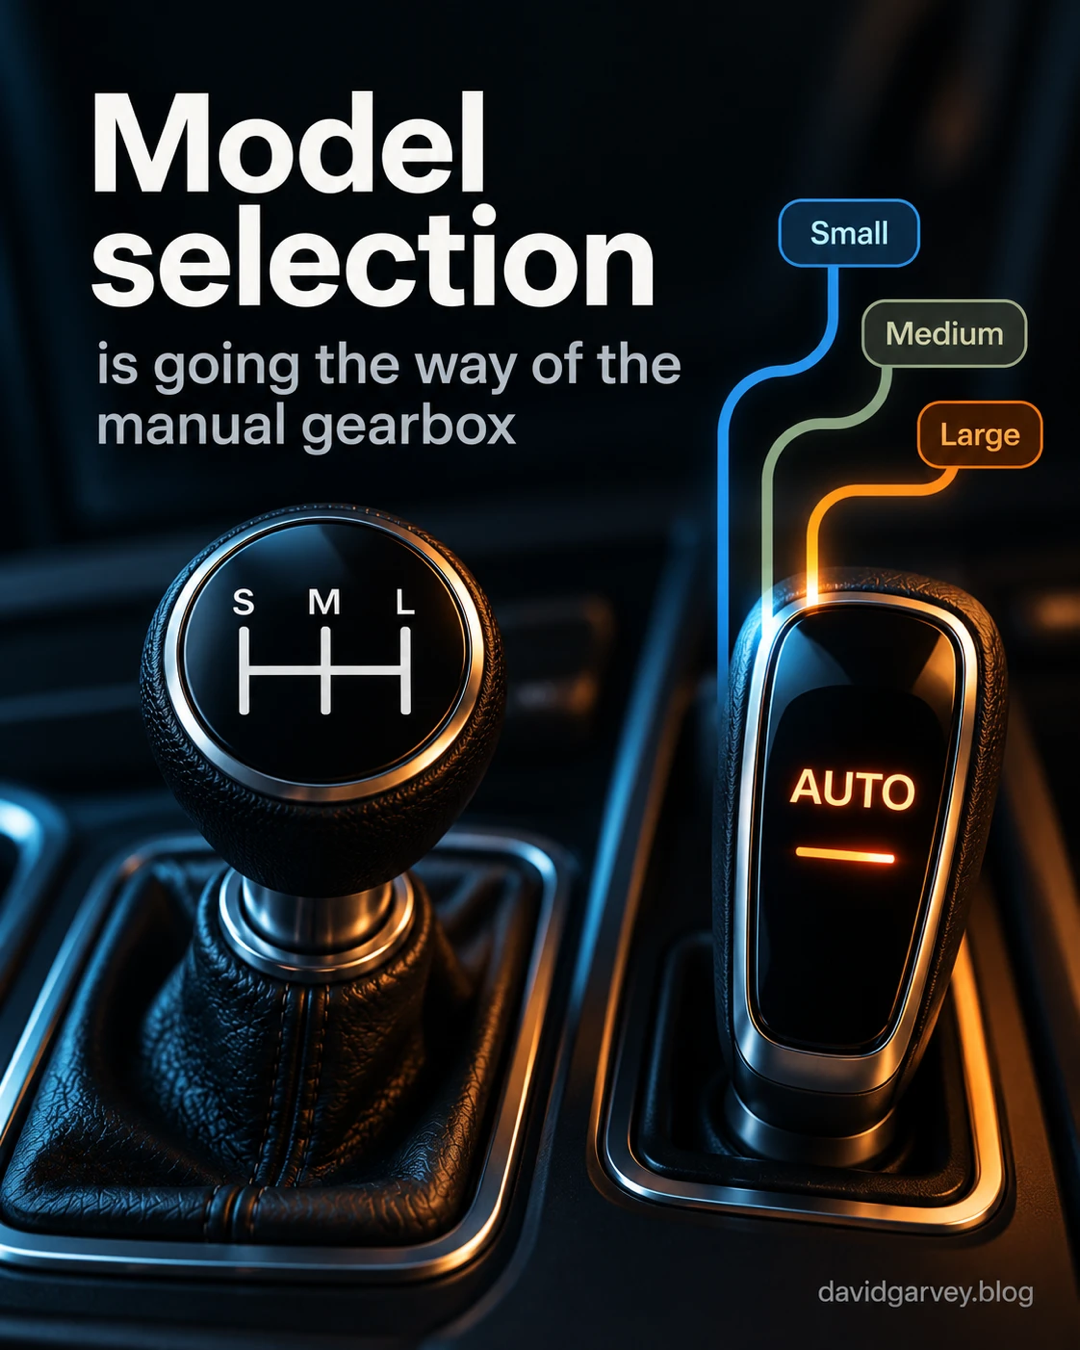
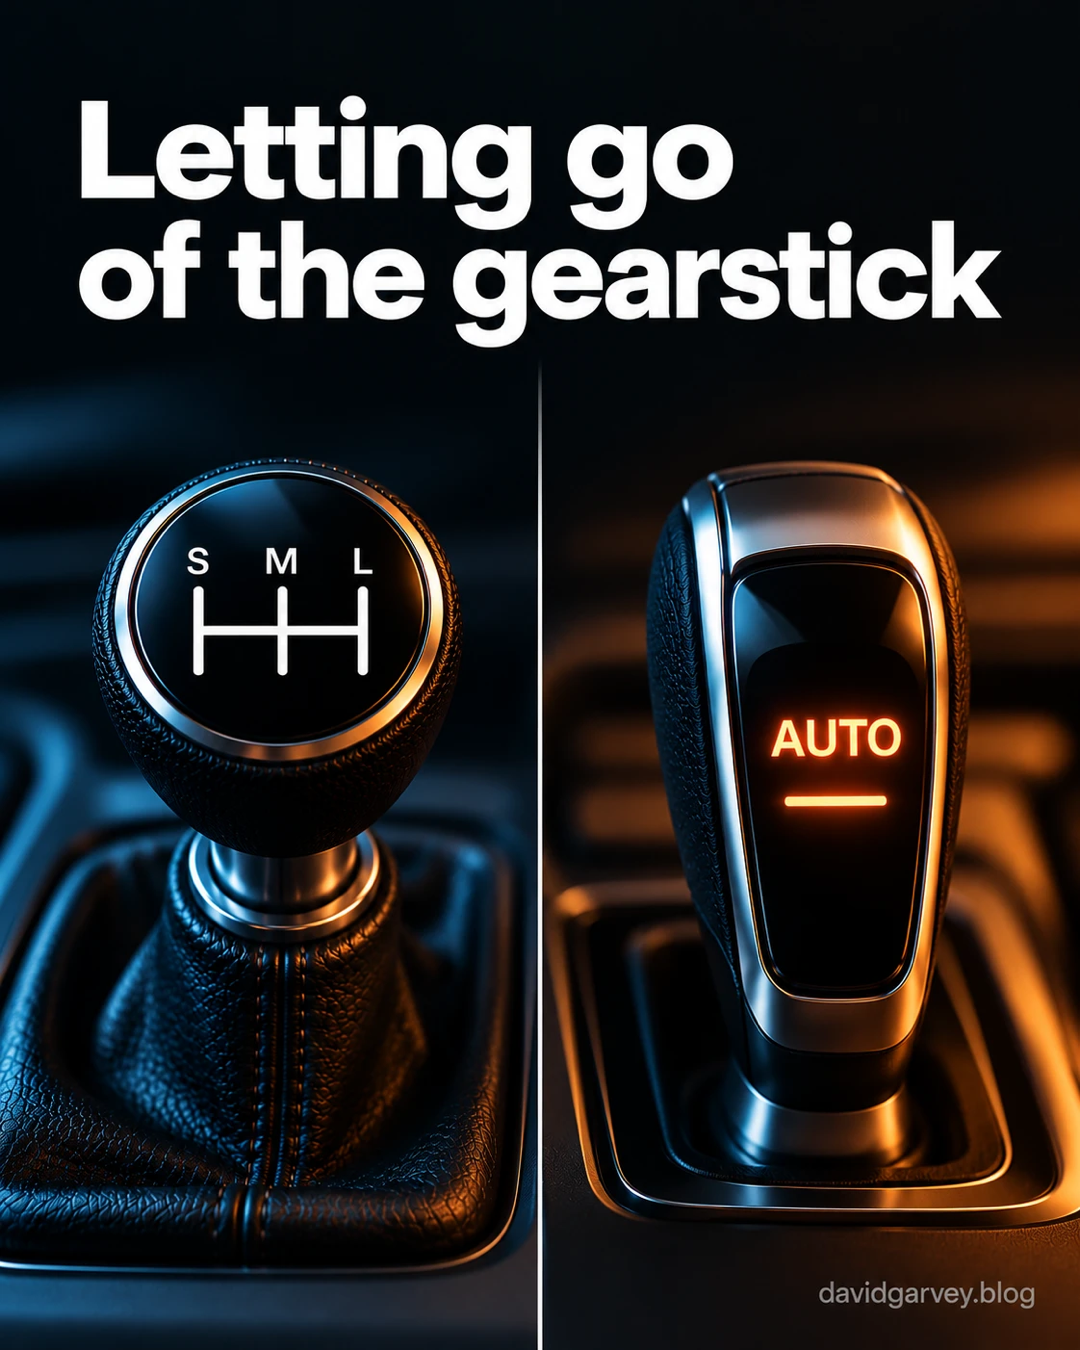
Replace the gearstick LinkedIn image with the new title
The regenerated image uses the post's new title and drops the tier tags.
Update its alt text and note how it differs from the recorded prompt.

diff --git a/assets/images/letting-go-of-the-gearstick/linkedin.md b/assets/images/letting-go-of-the-gearstick/linkedin.md
@@ -2,11 +2,11 @@
 
 ## Alt text
 
-Model selection is going the way of the manual gearbox. A dark car console at night with two gear levers. On the left, a manual knob shows an H-shaped shift pattern labelled S, M and L. On the right, an automatic selector glows with the word AUTO, and three lines labelled Small, Medium and Large run into it. davidgarvey.blog.
+Letting go of the gearstick. Two gear levers side by side on a dark car console, split down the middle. On the left, a black leather manual knob shows an H-shaped shift pattern labelled S, M and L, lit in cool blue. On the right, an automatic selector glows orange with the word AUTO. davidgarvey.blog.
 
 ## Prompt
 
-Generated with Dave's image tool from this prompt, then converted from WebP and sized to 1080×1350.
+Regenerated with Dave's image tool after the post was renamed, then converted from WebP and sized to 1080×1350. The exact prompt wasn't recorded. It started from the one below, with the headline changed to "Letting go of the gearstick" and the Small, Medium and Large tags dropped.
 
 ```text
 A portrait social media image, 1080 × 1350 pixels (4:5), for a LinkedIn post about AI model selection.
